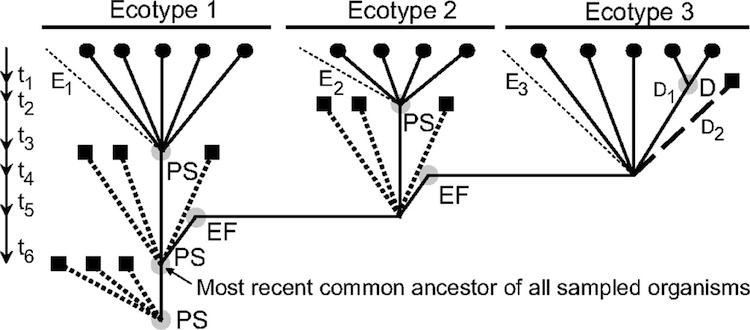
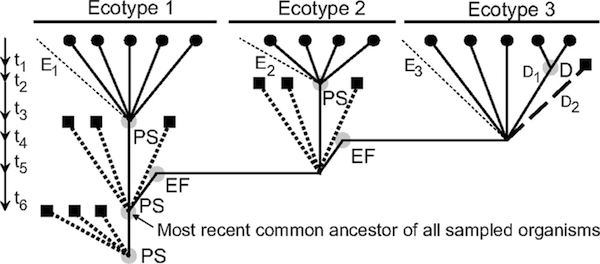
A few more pictures and a routine update

diff --git a/chapter2.tex b/chapter2.tex
@@ -22,6 +22,15 @@ Efforts to define prokaryotic species according to these properties have differe
 ES uses one model in particular to understand ecotype bacterial speciation.
 
 \subsection*{Stable Ecotype model}
+
+\begin{figure}[h!]
+% \caption{Three classes of mutation and recombination events that determine ecotype diversity in bacteria. Circles represent different genotypes, and asterisks adaptive mutations. (A) Periodic selection purges diversity. (B) Ecotype formation creates diversity. (C) Extinction events SHOULD I CUT THIS OUT?.(reprinted from \protect\cite{cohan2007systematics})}
+ \centering
+ \label{fig:StableEvents}
+ \includegraphics{images/StableEcotypeEvents-CH2}
+ \caption{Three classes of mutation and recombination events that determine ecotype diversity in bacteria. Circles represent different genotypes, and asterisks adaptive mutations. (A) Periodic selection purges diversity. (B) Ecotype formation creates diversity. (C) Extinction events. (reprinted from \protect\cite{cohan2007systematics})}
+\end{figure}
+
 In the Stable Ecotype model ecotypes are created and extinguished at a very low rate, and during its long lifetime an ecotype is recurrently purged of its diversity by periodic selection events~\cite{cohan2007systematics}.
 Ecotypes are formed rarely enough so that they can accumulate its own set of unique mutations while diversity is purged, yielding a correspondence between ecotypes and sequence clusters for any gene shared among ecotypes~\cite{cohan2008origins}.
 This fact, hinted at earlier, is what allows ES to identify separate ecotypes based on environmental function without knowledge of particular phenotypic mutations.
@@ -40,37 +49,40 @@ To complete the dynamics of the Stable Ecotype model, extinction events are also
 An ecotype, obviously, can go extinct.
 Previous work done in the Cohan lab was done to develop an algorithm based on the Stable Ecotype model, which eventually became known as Ecotype Simulation.
 
-\begin{figure}[h!]
- \caption{Three classes of mutation and recombination events that determine ecotype diversity in bacteria. Circles represent different genotypes, and asterisks adaptive mutations. (A) Periodic selection purges diversity. (B) Ecotype formation creates diversity. (C) Extinction events SHOULD I CUT THIS OUT?.(reprinted from \protect\cite{cohan2007systematics})}
- \centering
- \label{fig:StableEvents}
- \includegraphics{images/StableEcotypeEvents-CH2}
-\end{figure}
-
 
 \section{The Algorithm}
 
-\begin{figure}[h!]
- \caption{Something (reprinted from \protect\cite{cohan2008origins}) }
+\begin{SCfigure}
+ \caption{ The Stable Ecotype model, in which ecotype formation is relatively rare, and periodic selection events frequently purge all diversity from within each ecotype. This model predicts a one-to-one correspondence between sequence clusters and ecotypes. (reprinted from \protect\cite{cohan2008origins}) }
  \centering
  \label{fig:StableTree}
- \includegraphics{images/StableTree-CH2}
-\end{figure}
+% \includegraphics{images/StableTree-CH2}
+ \includegraphics[width=0.5\textwidth]{images/StableTree-CH2}
+\end{SCfigure}
 
-%EDIT CAPTION
-\begin{figure}[h!]
- \caption{ (reprinted from \protect\cite{koeppel2008identifying})}
-  %\caption{The ecotype simulation algorithm. The algorithm simulates the evolutionary history of the $v$ organisms sampled from nature, under different quartets of values for the net rate of ecotype formation (EF), the rates of periodic selection (PS) and drift (D), and the number of ecotypes in the sample. In the coalescence approach taken (36), the algorithm considers only the lineages that are directly ancestral to the ? sampled organisms (represented by black circles). %These focal lineages are represented by solid lines; the many contemporary lineages not sampled from each ecotype are indicated by light dashed lines (E1, E2, and E3); the lineages extinguished by past PS and D are represented by bold short-dashed lines and long-dashed lines, respectively, with each extinction represented by a square. The program begins with a ``backward'' simulation that stochastically produces a phylogenetic representation of the history of the community, establishing nodes of coalescence of lineages (due to PS, EF, or D; indicated by gray circles) and time between nodes (t1, t2, etc.); this phylogeny is then taken as a scaffold for the forward simulation. The purpose of the forward simulation is to produce mutational nucleotide substitutions throughout the history of the clade, according to the phylogenetic scaffold. To begin a simulation, a set of v contemporary organisms (representing the ? organisms sampled from nature) are distributed randomly (according to the canonical lognormal distribution) among n ecotypes (here, ? = 14 and n = 3). Working backward from the ? organisms in the present, the processes of EF, PS, and D occur stochastically in time according to their respective rates ($\Omega$, $\sigma$, and d). For each such event, one or more lineages coalesce into a single ancestral lineage, as described in SI. Note that in the backward-looking view of the coalescence formulation, each PS appears as a coalescence event, in which all lineages after the PS coalesce into the survivor of the PS event. Likewise, each D event appears in this backward-looking view as the coalescence of a pair of lineages within an ecotype (e.g., two contemporary lineages coalesce into lineage D1 to reflect the increased representation of lineage D1 after the random loss by drift of lineage D2). Because $\Omega$ is the net rate of EF events, taking into account extinction, we include in the simulation only those EF events resulting in ecotypes that survive into our contemporary sample. The backward phase of the simulation ends when all of the branches have coalesced into a single node; this represents the most recent common ancestor of all of the sampled organisms. Then the forward simulation begins when a sequence (of the same length as the observed sequence data) is assigned to this most recent common ancestor. Nucleotide substitutions then occur stochastically, going forward in time, between each pair of nodes in the phylogeny derived from the backward simulation, according to the time between the events determining the nodes. This generates a matrix of pairwise sequence divergence between all v contemporary organisms for a simulation replicate, from which a clade sequence diversity curve is calculated; the simulated clade sequence diversity curve is then compared against the observed clade sequence diversity curve (see SI).%
-  \centering
-  \label{fig:SpeciationGraph}
-   \includegraphics{images/Speciation-CH2}
-\end{figure}
+Utilizing the premises established in the Stable Ecotype model we produce a tree in most cases similar to the one represented in Figure ~\ref{fig:StableTree}. 
 
-Check out Figure ~\ref{fig:SpeciationGraph}.
 
 Here I'll go over the process in non-system specific way. Make phylogeny based on distances. Then we want to find the parameters that describe the sequence identity graph. Then describe why these parameters are relevant and the power they give us. Allow us to pick at which point we pass diversity between different species groups and diversity within a species group.
 
 
 
 \section{Ecotype Simulation}
+
+\begin{figure}[h!]
+ \centering
+ \label{fig:Binning}
+ \includegraphics{images/Binning-CH2}
+ \caption{An example output of information from the initial binning of wild-type sequences. (adapted from \protect\cite{koeppel2008identifying}) }
+\end{figure}
+
+%EDIT CAPTION
+\begin{figure}[h!]
+%The program begins with a ``backward'' simulation that stochastically produces a phylogenetic representation of the history of the community, establishing nodes of coalescence of lineages (due to PS, EF, or D; indicated by gray circles) and time between nodes (t1, t2, etc.); this phylogeny is then taken as a scaffold for the forward simulation. The purpose of the forward simulation is to produce mutational nucleotide substitutions throughout the history of the clade, according to the phylogenetic scaffold. To begin a simulation, a set of v contemporary organisms (representing the ? organisms sampled from nature) are distributed randomly (according to the canonical lognormal distribution) among n ecotypes (here, ? = 14 and n = 3). Working backward from the ? organisms in the present, the processes of EF, PS, and D occur stochastically in time according to their respective rates ($\Omega$, $\sigma$, and d). For each such event, one or more lineages coalesce into a single ancestral lineage, as described in SI. Note that in the backward-looking view of the coalescence formulation, each PS appears as a coalescence event, in which all lineages after the PS coalesce into the survivor of the PS event. Likewise, each D event appears in this backward-looking view as the coalescence of a pair of lineages within an ecotype (e.g., two contemporary lineages coalesce into lineage D1 to reflect the increased representation of lineage D1 after the random loss by drift of lineage D2). Because $\Omega$ is the net rate of EF events, taking into account extinction, we include in the simulation only those EF events resulting in ecotypes that survive into our contemporary sample. The backward phase of the simulation ends when all of the branches have coalesced into a single node; this represents the most recent common ancestor of all of the sampled organisms. Then the forward simulation begins when a sequence (of the same length as the observed sequence data) is assigned to this most recent common ancestor. Nucleotide substitutions then occur stochastically, going forward in time, between each pair of nodes in the phylogeny derived from the backward simulation, according to the time between the events determining the nodes. This generates a matrix of pairwise sequence divergence between all v contemporary organisms for a simulation replicate, from which a clade sequence diversity curve is calculated; the simulated clade sequence diversity curve is then compared against the observed clade sequence diversity curve (see SI).%
+  \centering
+  \label{fig:SpeciationGraph}
+   \includegraphics{images/Speciation-CH2}
+   \caption{A phyolgeny representation of the ecotype simulation algorithm. The algorithm simulates the evolutionary history of the organisms sampled from nature under different values for the net rate of ecotype formation (EF), rates of periodic selection (PS), drift (D), and the number of ecotypes in the sample. It only considers existing individuals (black circles) from non-extinct lineages represented by bold lines. Previously extinguished lineages, due to past PS or D events, are represented by dotted lines and squares. (reprinted from \protect\cite{koeppel2008identifying})}
+\end{figure}
+
 Here we can show how we attempt to implement this algorithm. Use system diagrams going from binning to brute force to hill climbing to automatic demarcations. We can choose how to divide this up into sections later. One subsection per program?

diff --git a/Master.tex b/Master.tex
@@ -1,6 +1,9 @@
 %\documentclass[11pt, draft]{westhesis}
 \documentclass[11pt, final]{westhesis}
 
+%For side captions
+\usepackage[pdftex]{graphicx}
+\usepackage{sidecap}
 
 %This is for block quotes that look cool
 \usepackage{ifxetex}
